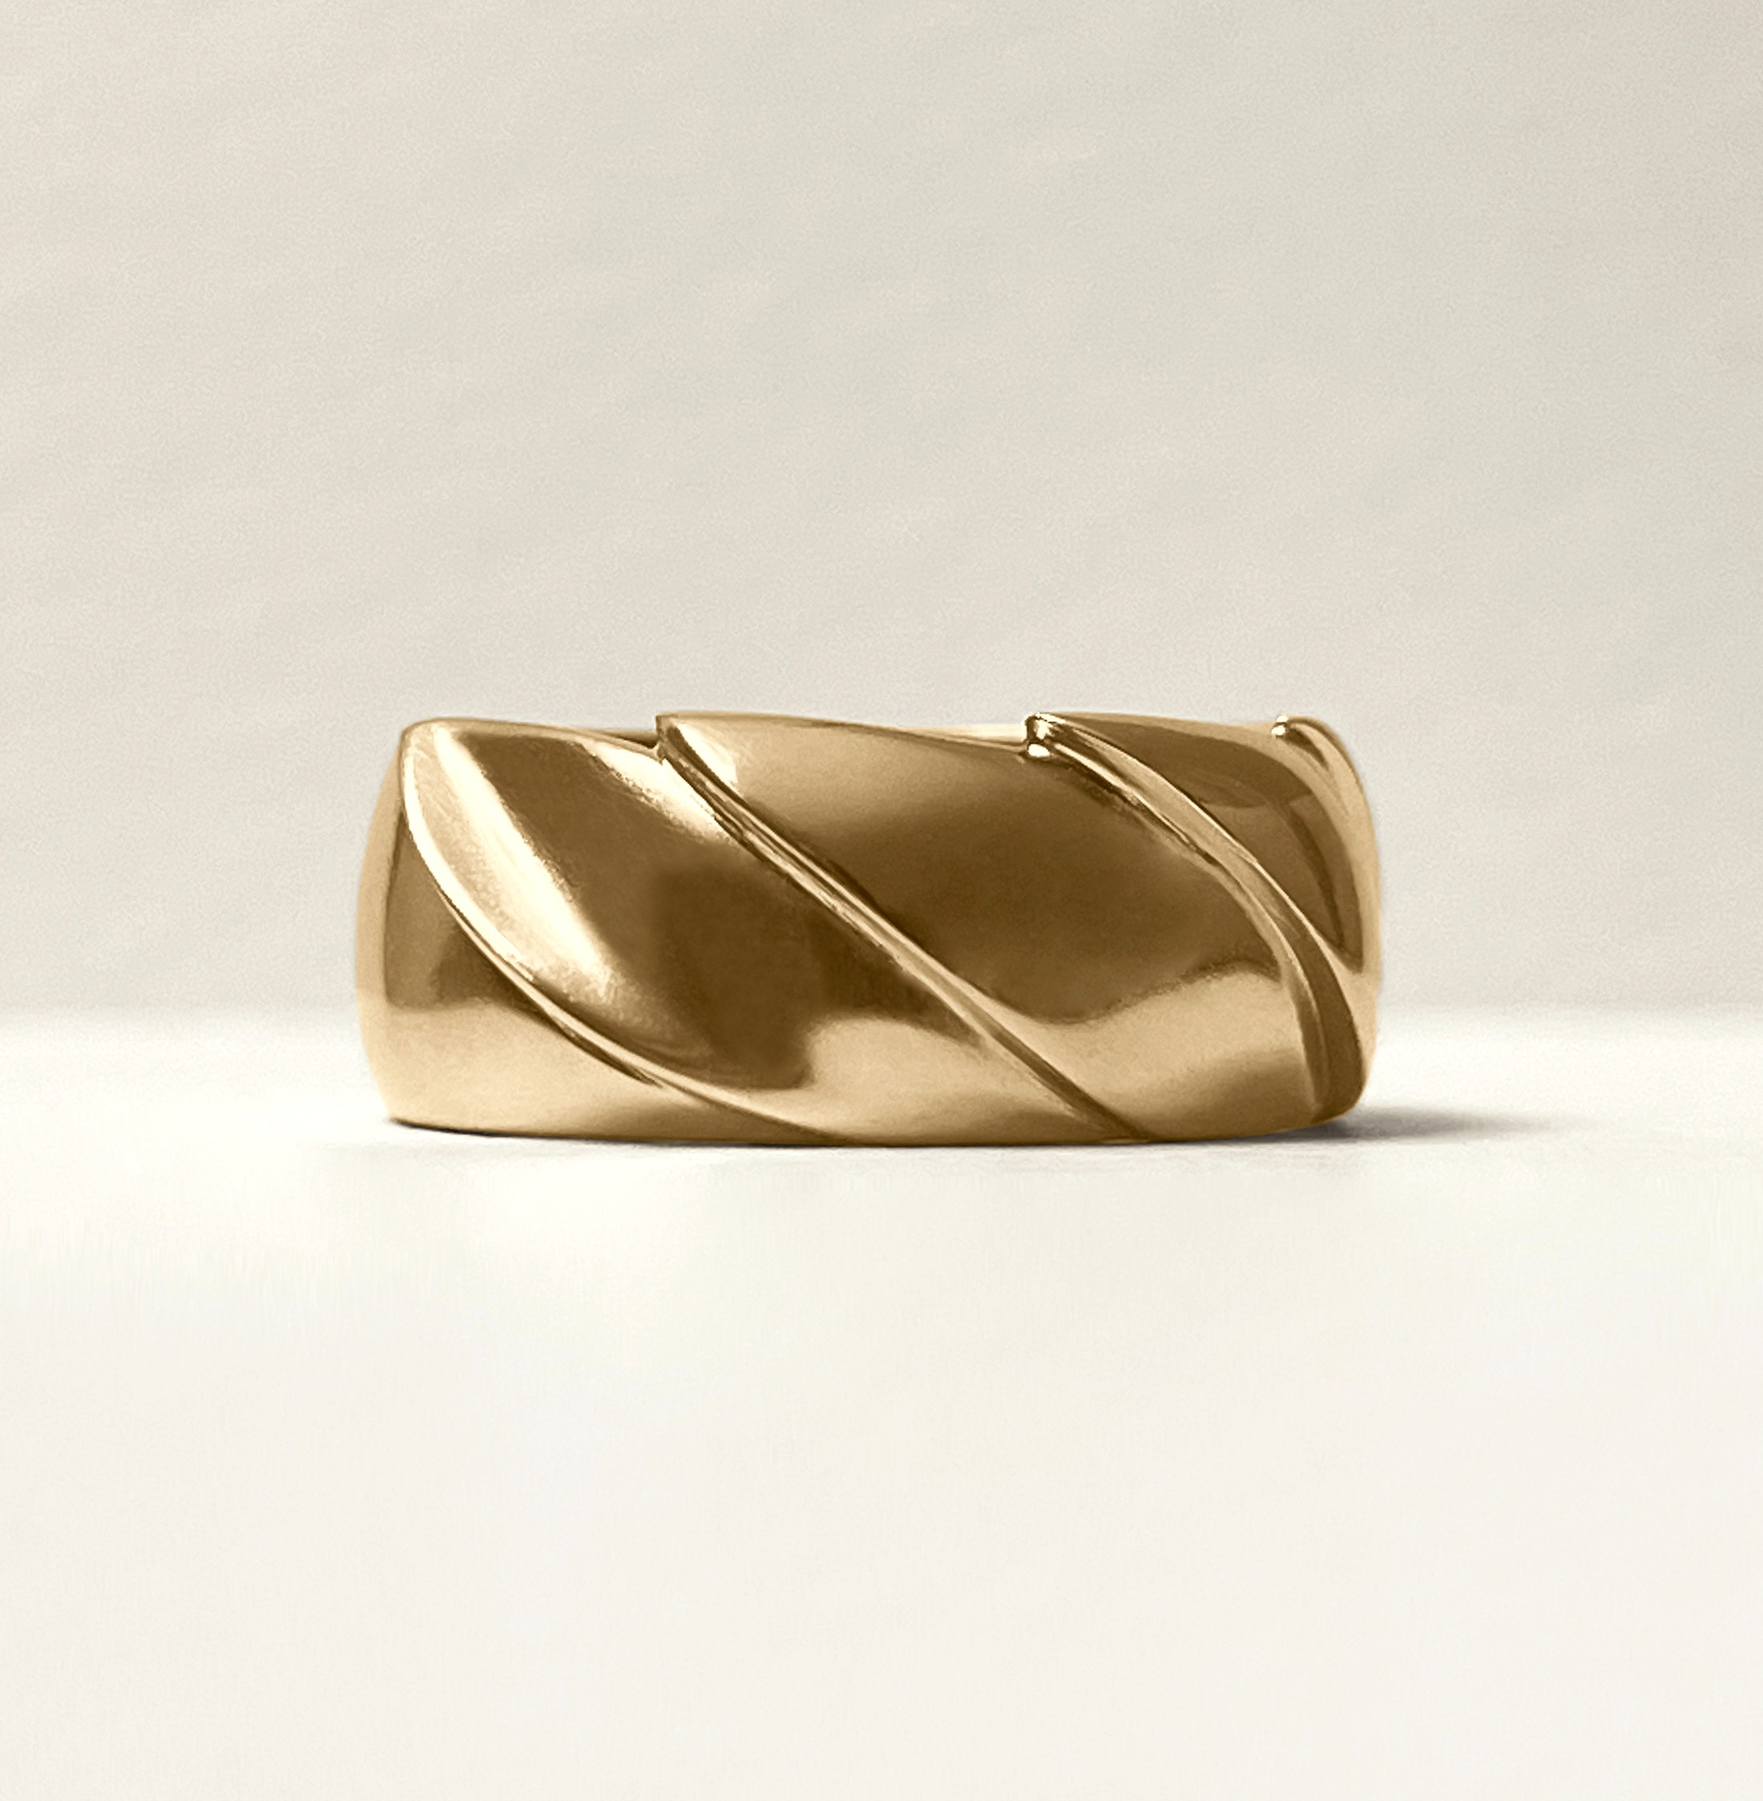
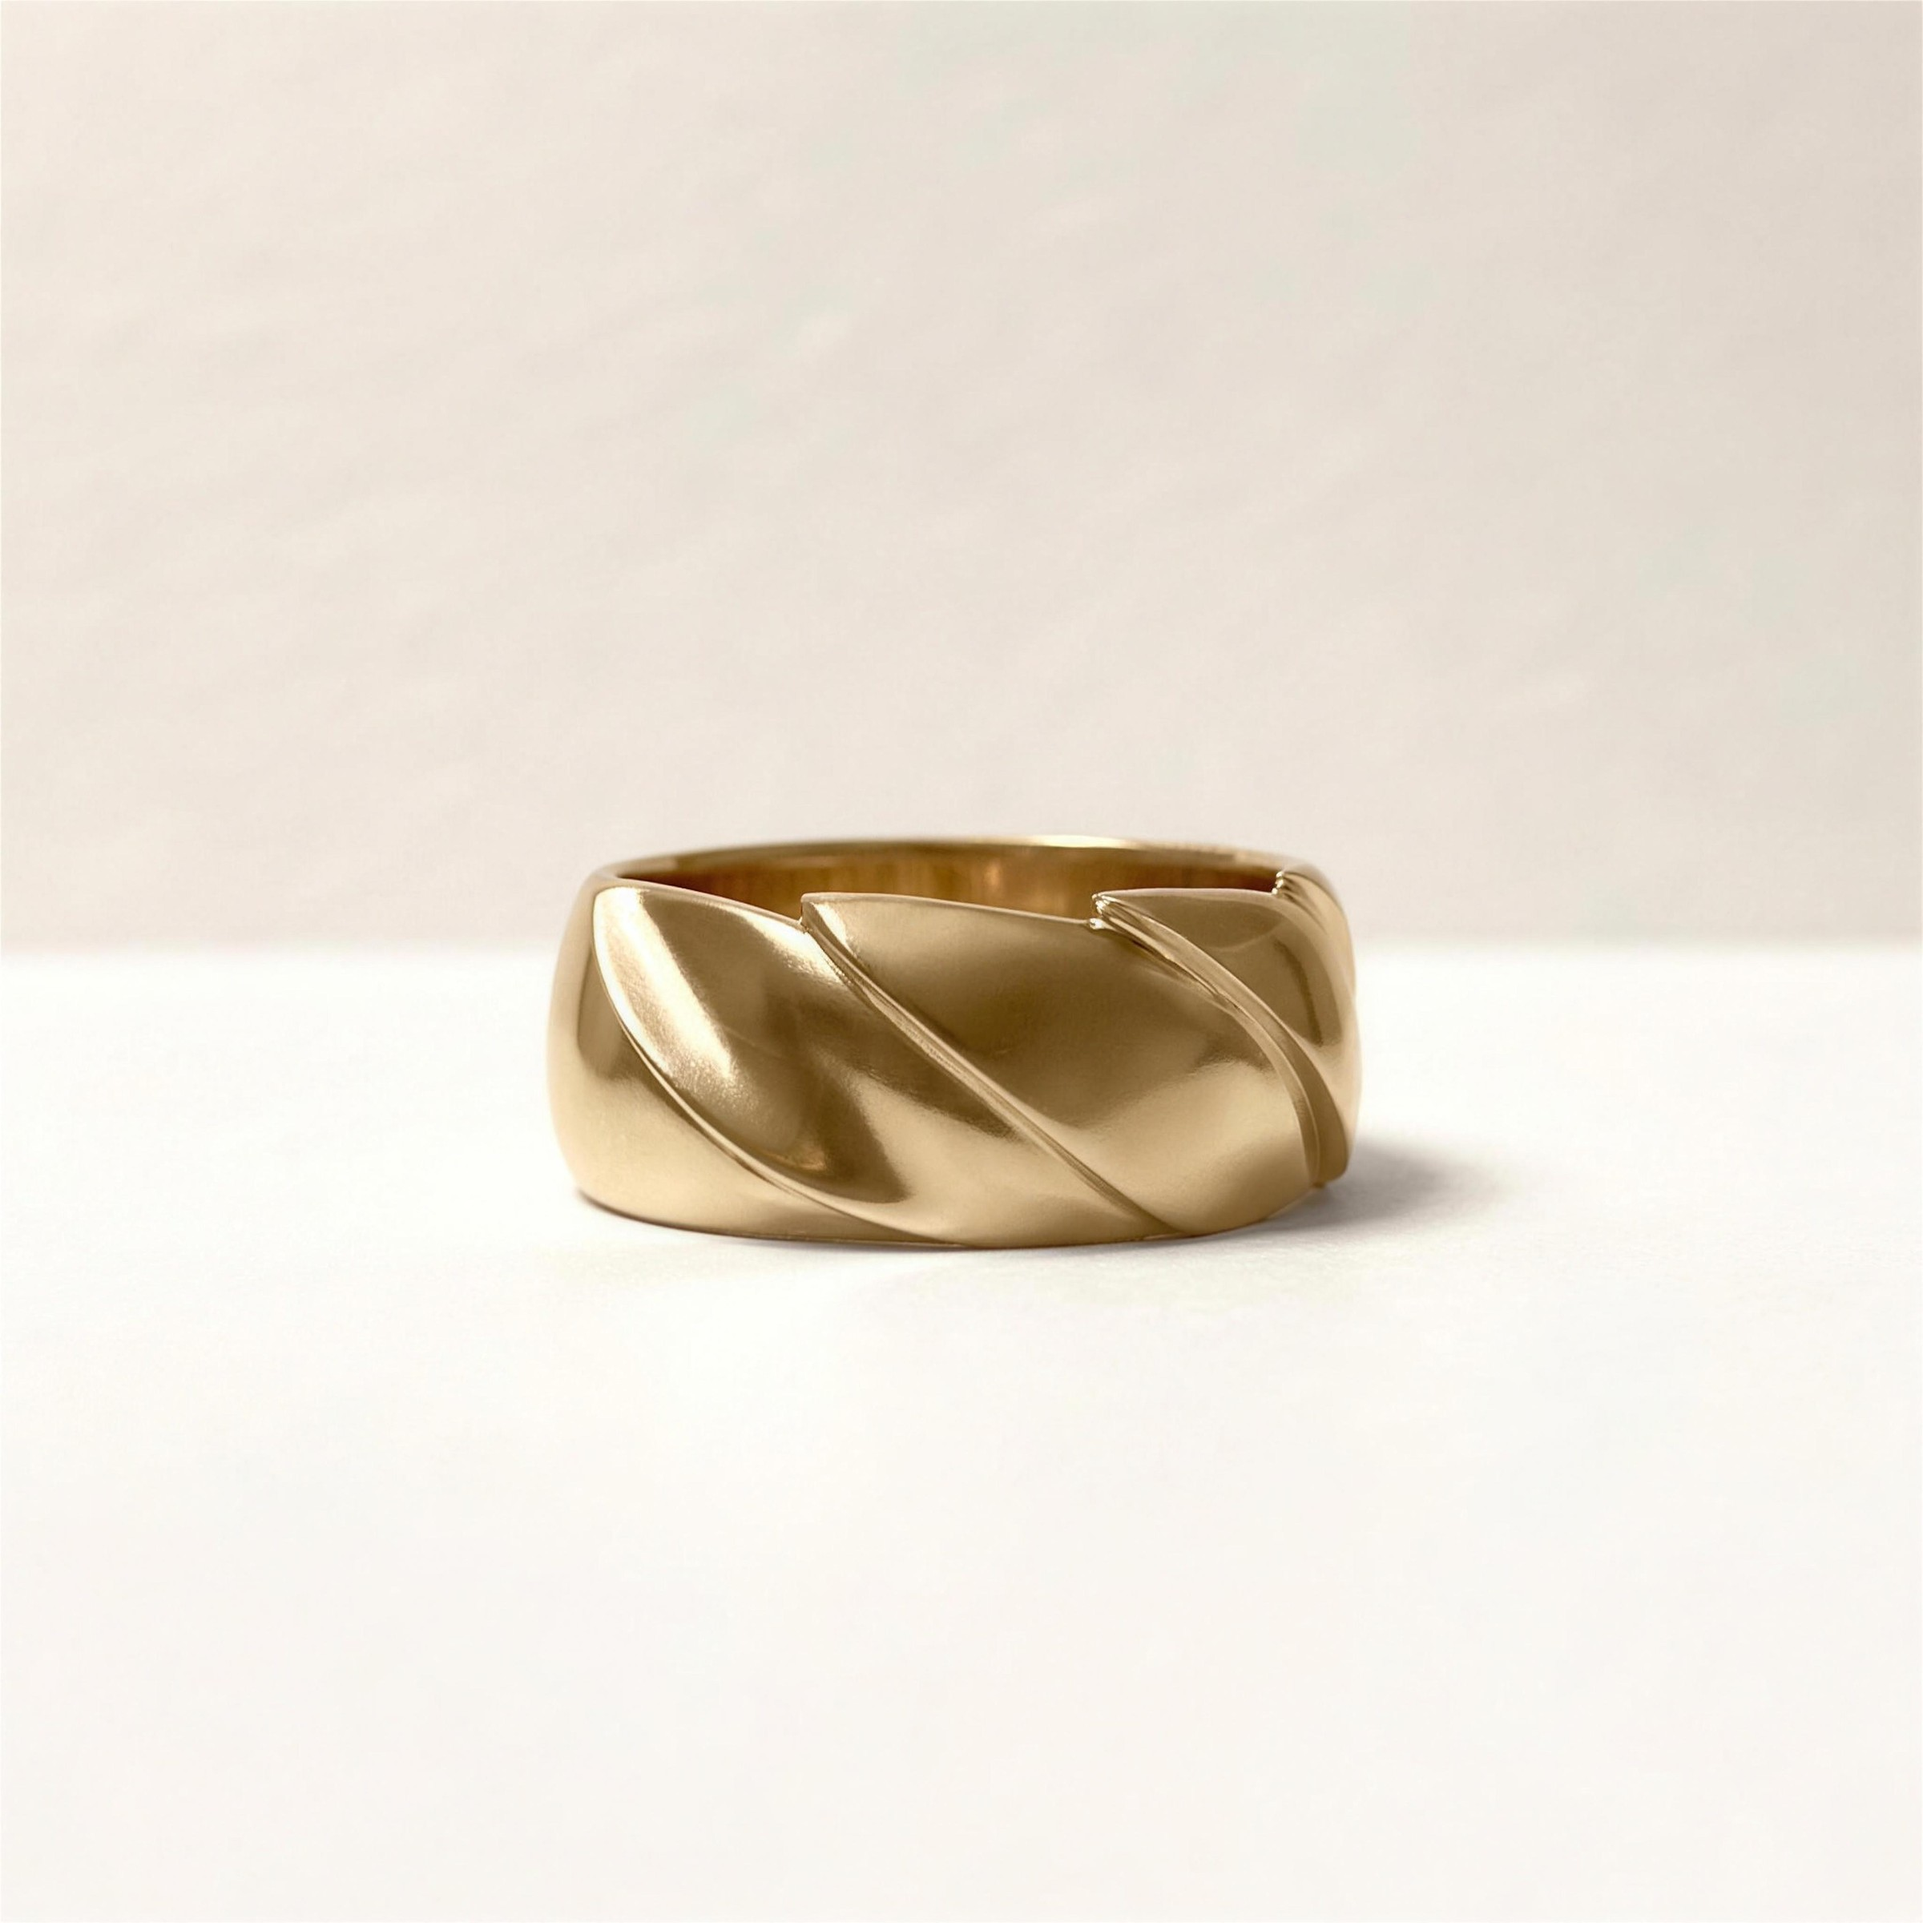
Custom: lead band outpainted and upscaled

Changed region(s): [[0.0, 0.3738, 1.0, 0.6542]]

diff --git a/pdp/custom.html b/pdp/custom.html
@@ -233,7 +233,7 @@
 
 <main class="commission">
   <section class="examples wall" aria-label="Past commissions" style="--frame:1/1">
-    <figure class="lead" data-lead><img width="2200" height="2247" src="img/commissions-cut/hero-band.jpg.webp" alt="A gold band carved with a spiral, a custom commission" fetchpriority="high"></figure>
+    <figure class="lead" data-lead><img width="2400" height="2400" src="img/commissions-cut/hero-band.jpg.webp" alt="A gold band carved with a spiral, a custom commission" fetchpriority="high"></figure>
     <figure class="cutout" data-name="02.png" style="--s:0.7;--x:0.0;--y:0.0"><img src="img/commissions-cut/02.png.webp" width="546" height="217" alt="Split Band" loading="eager" draggable="false"><span class="over"><span class="date">2024</span><span class="name">Split Band</span></span></figure>
     <figure class="cutout" data-name="04.png" style="--s:0.6;--x:0.0;--y:0.0"><img src="img/commissions-cut/04.png.webp" width="1025" height="593" alt="Faceted Gold Band" loading="eager" draggable="false"><span class="over"><span class="date">2024</span><span class="name">Faceted Gold Band</span></span></figure>
     <figure class="cutout" data-name="15.png" style="--s:0.58;--x:0.0;--y:0.0"><img src="img/commissions-cut/15.png.webp" width="1023" height="633" alt="Birth Band II" loading="eager" draggable="false"><span class="over"><span class="date">2024</span><span class="name">Birth Band II</span></span></figure>
